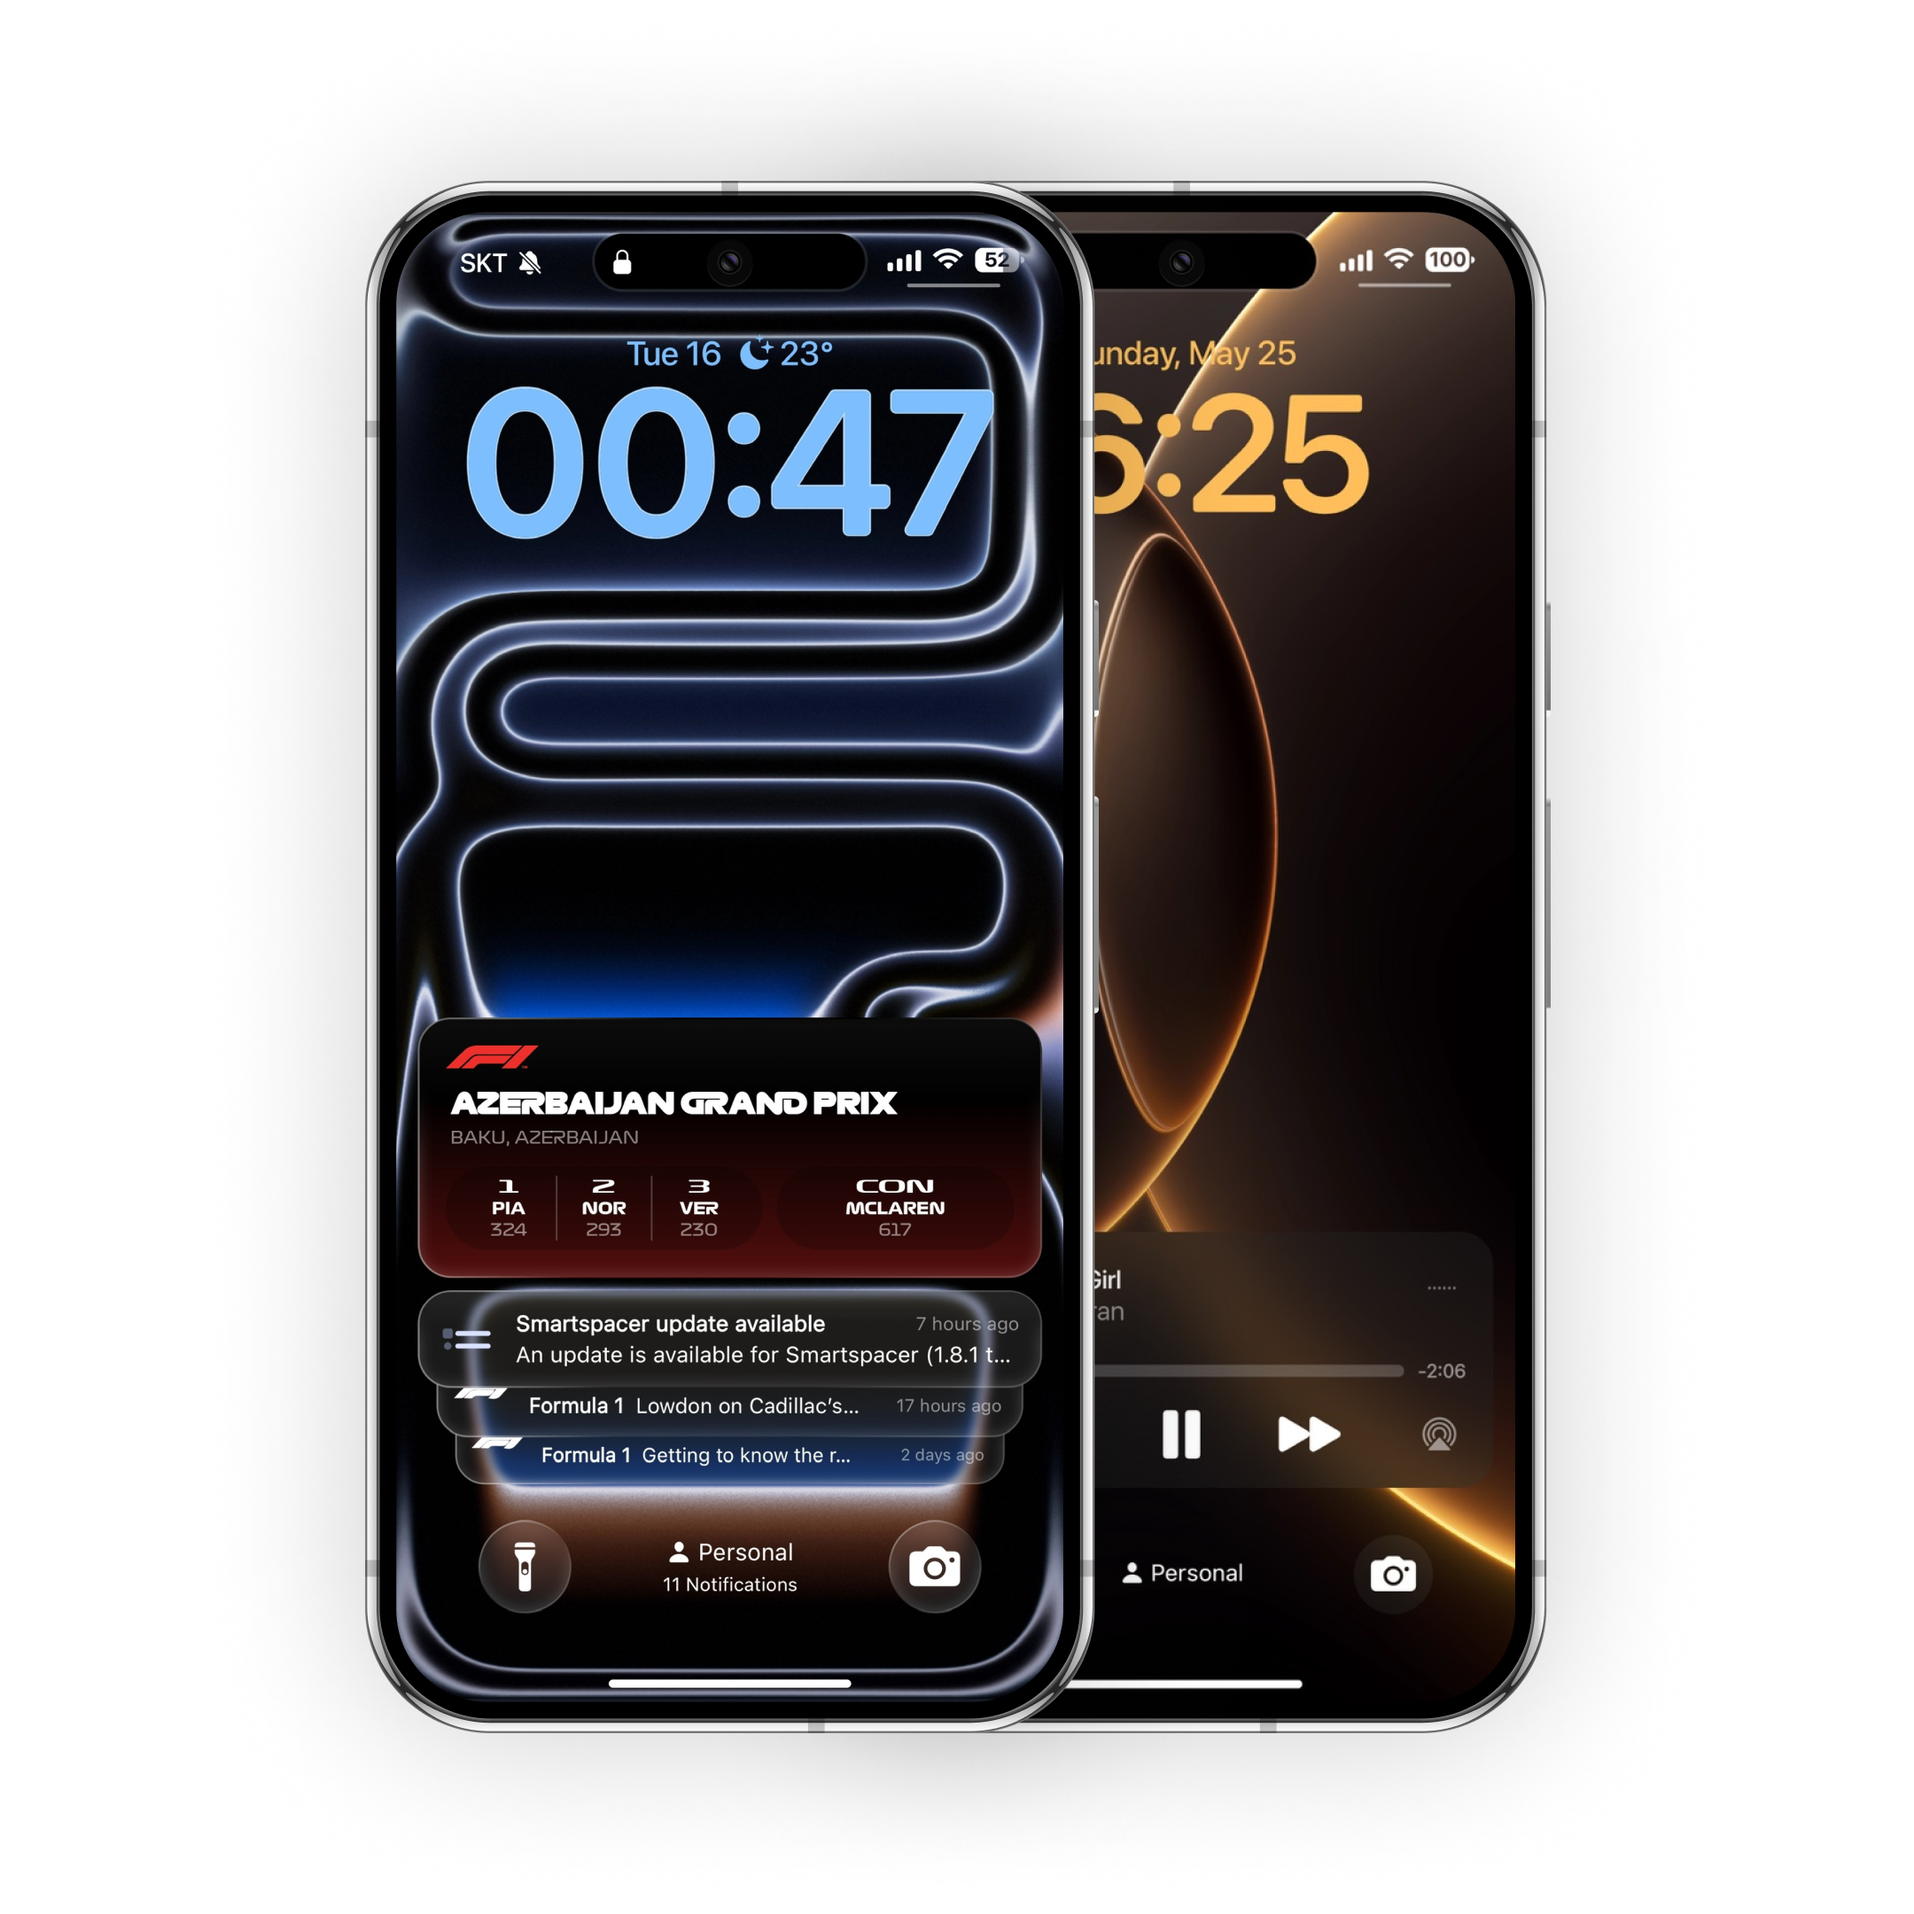
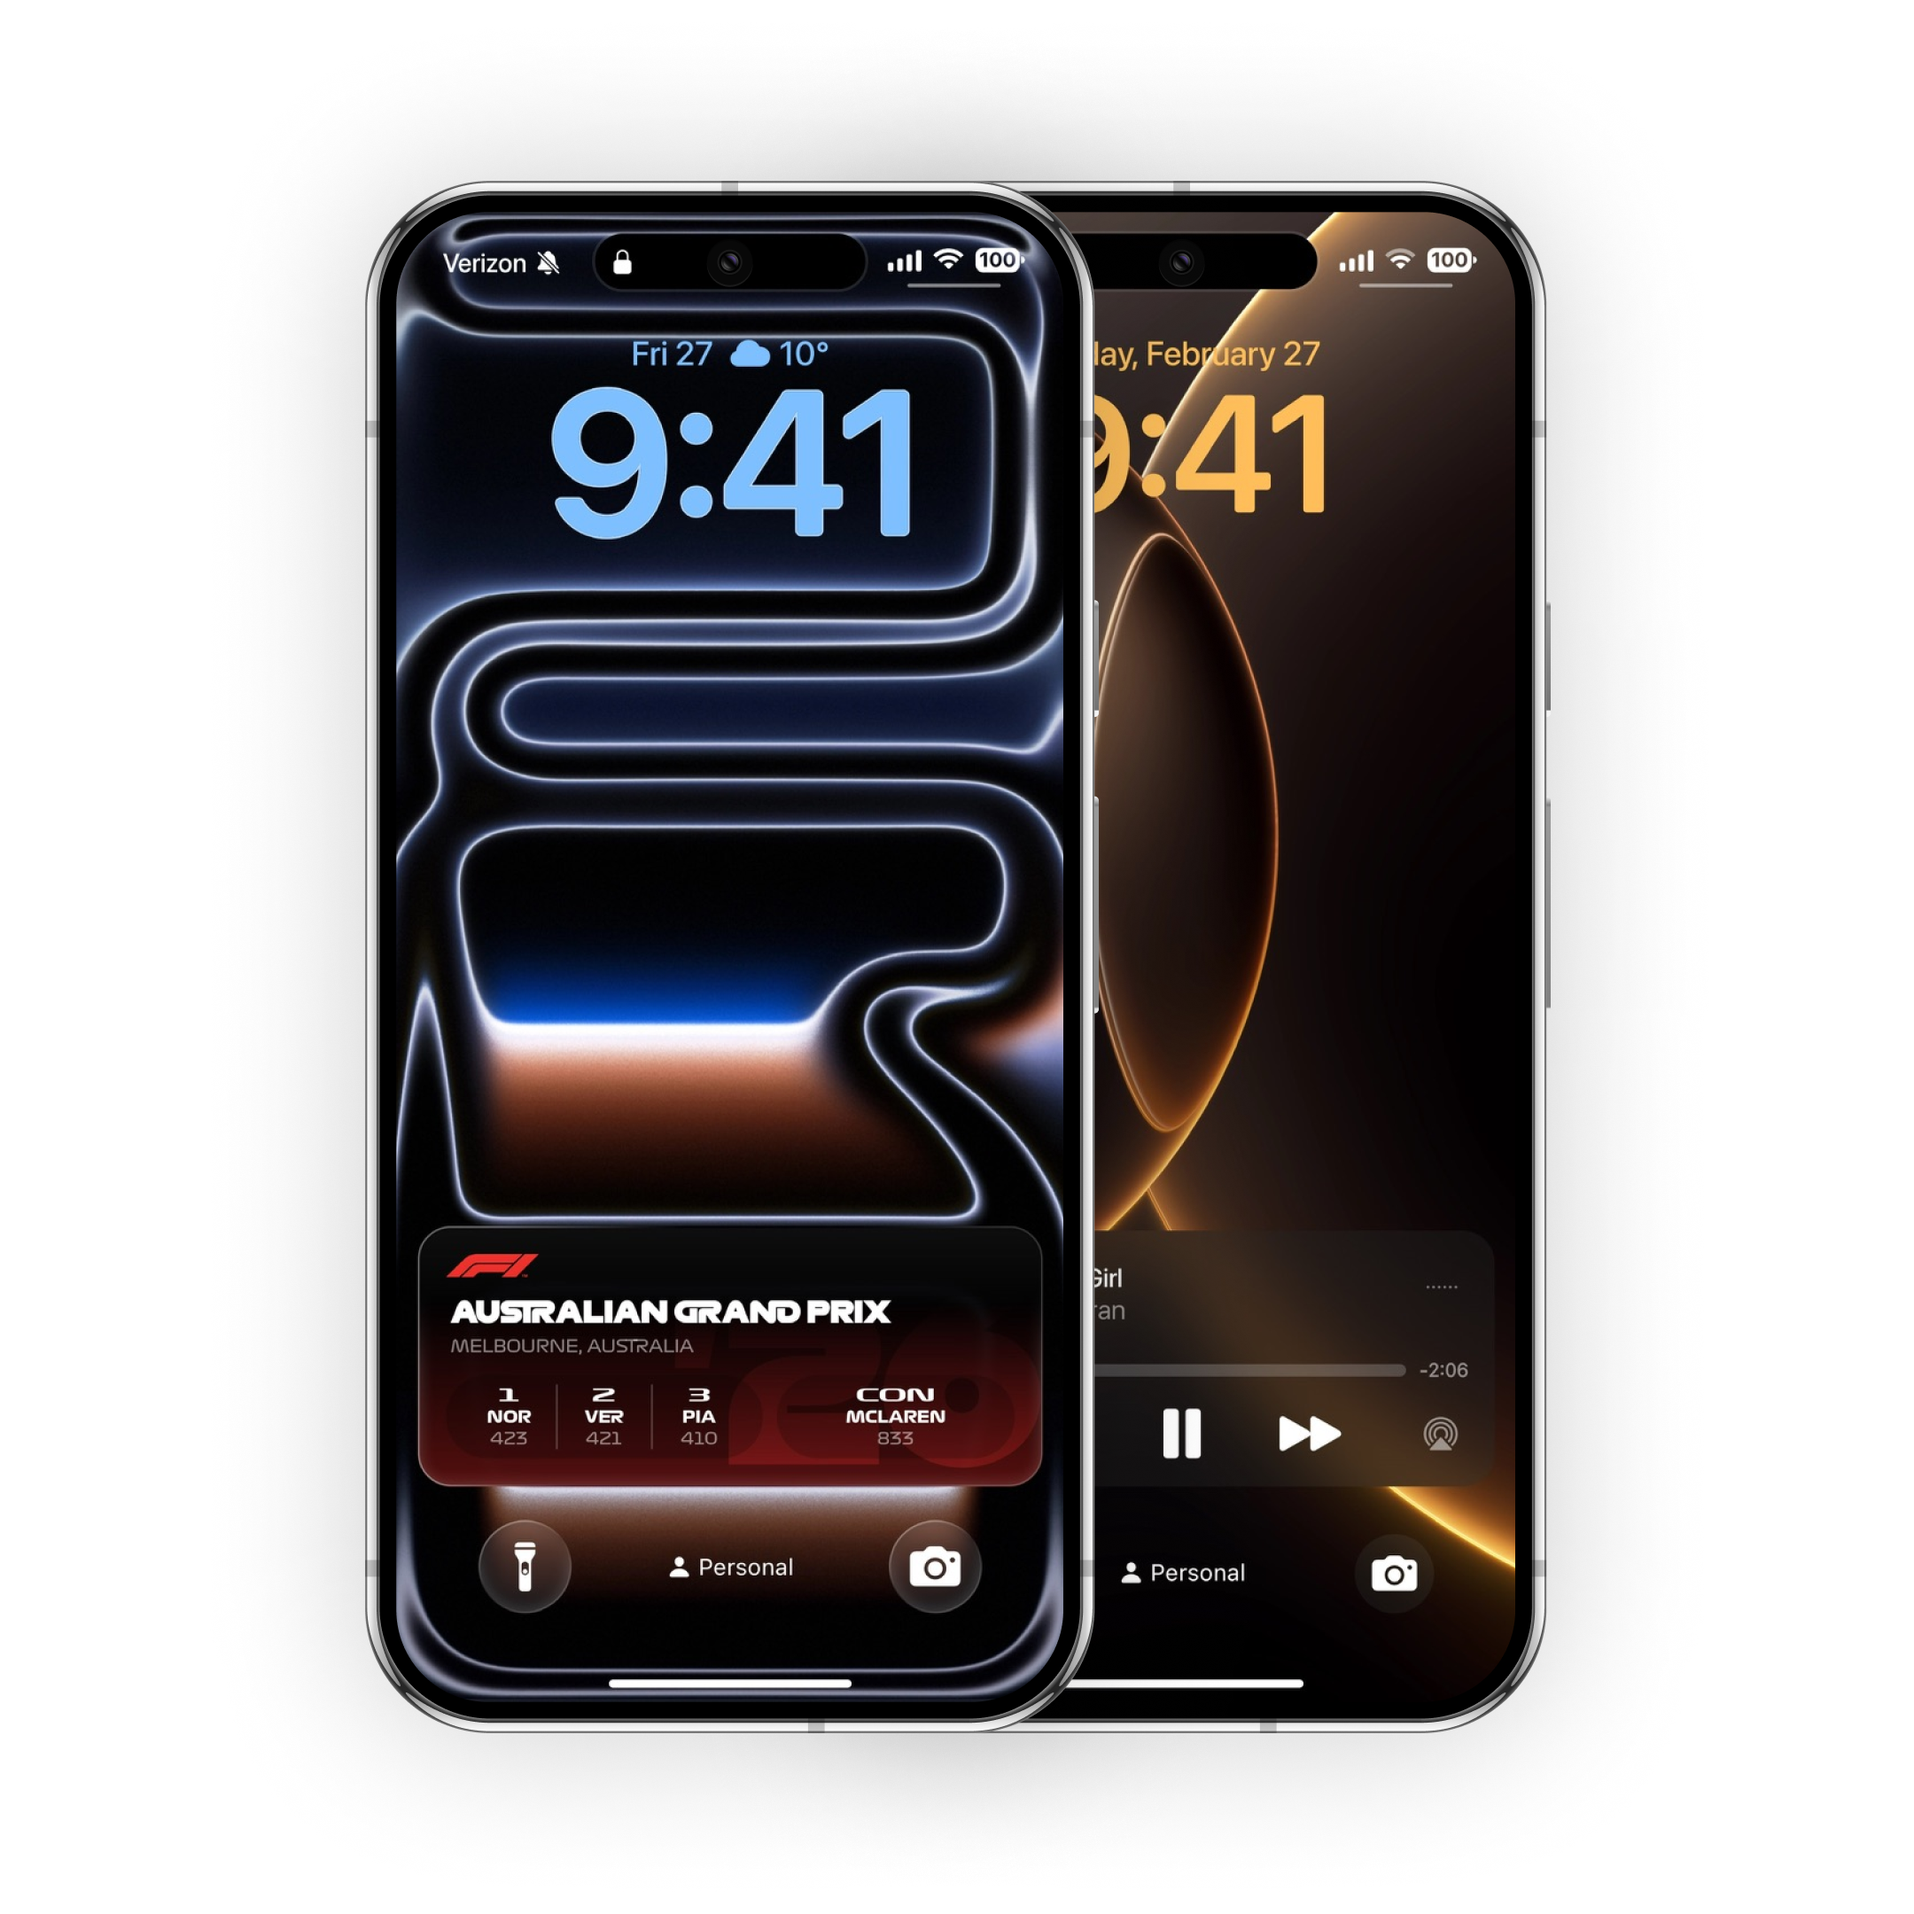
Update Connect cards and reveal animations

diff --git a/docs/index.html b/docs/index.html
@@ -81,7 +81,7 @@
       <div class="container">
         <div class="section-head reveal" data-reveal data-parallax="0.02">
           <p class="eyebrow">Core Disciplines</p>
-          <h2>Three Pillars, One Language</h2>
+          <h2>Smooth Operator Across The Entire Stack</h2>
         </div>
 
         <div class="discipline-grid">
@@ -131,6 +131,18 @@
           </div>
         </article>
       </template>
+    </section>
+
+    <section id="connect" class="section connect" data-section="connect">
+      <div class="container">
+        <div class="section-head reveal" data-reveal data-parallax="0.02">
+          <p class="eyebrow">Social Connect</p>
+          <h2>Open Repositories and Direct Channels</h2>
+        </div>
+        <p class="about-copy reveal" data-reveal>
+          This section anchors the public-facing routes around Modelized: open repositories, live links, and direct channels that extend the work beyond the portfolio surface.
+        </p>
+      </div>
     </section>
   </main>
 

diff --git a/docs/assets/partials/nav.html b/docs/assets/partials/nav.html
@@ -10,6 +10,7 @@
         <li><a href="#about" data-nav-link>About</a></li>
         <li><a href="#disciplines" data-nav-link>Disciplines</a></li>
         <li><a href="#projects" data-nav-link>Projects</a></li>
+        <li><a href="#connect" data-nav-link>Connect</a></li>
       </ul>
 
       <div class="nav-right">
@@ -27,6 +28,7 @@
           <li style="--menu-delay: .13s;"><a href="#about" data-nav-link>About</a></li>
           <li style="--menu-delay: .23s;"><a href="#disciplines" data-nav-link>Disciplines</a></li>
           <li style="--menu-delay: .35s;"><a href="#projects" data-nav-link>Projects</a></li>
+          <li style="--menu-delay: .43s;"><a href="#connect" data-nav-link>Connect</a></li>
         </ul>
       </div>
     </div>
